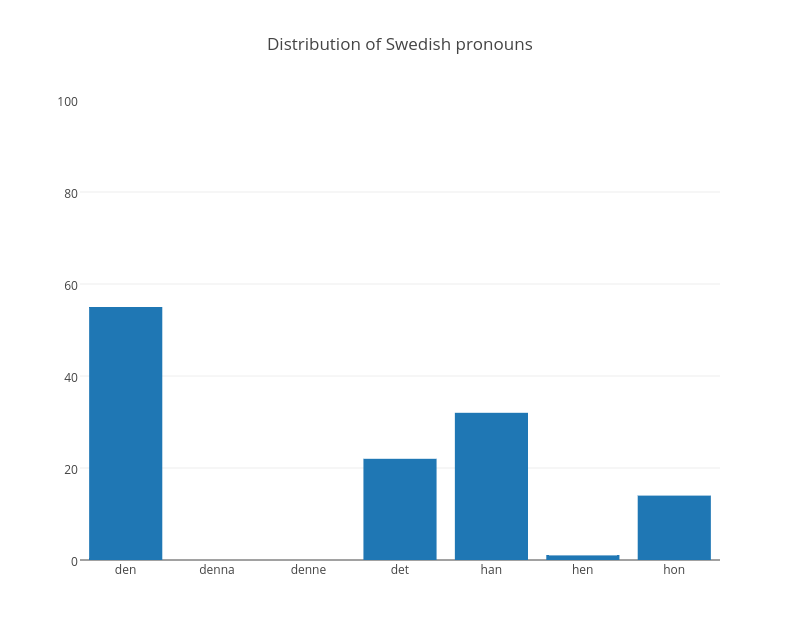
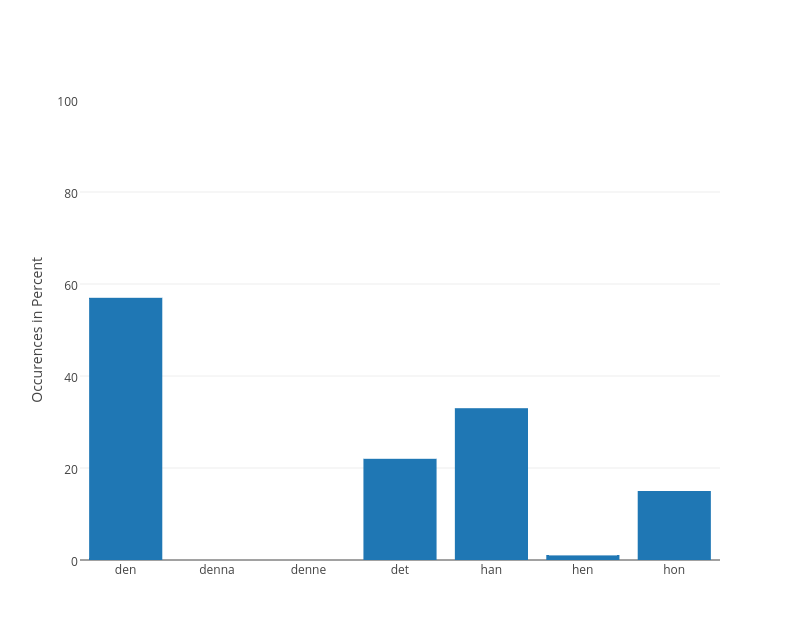
LAB2 - Finished python mapper/reducer and HiveSQL script
* dont know why the counting is different
* should not be!

diff --git a/wordcount-python/plot-abc.py b/wordcount-python/plot-abc.py
@@ -1,0 +1,55 @@
+import plotly.plotly as py
+import plotly.graph_objs as go
+# Sign in to plotly
+py.sign_in('XXX', 'XXX') # Replace the username, and API key with your credentials.
+
+# read data which is going to be plottet from file
+with open("plot-data-abc.txt") as f:
+    content = f.readlines()
+
+xlist = []
+ylist = []
+
+summe = 0;
+max = 0;
+
+for item in content:
+    xlist.append(item.split()[0])
+    ylist.append(int(item.split()[1]))
+    summe = summe + int(item.split()[1])
+    if max < int(item.split()[1]):
+      max = int(item.split()[1]);
+
+def relative(value): return (100*value)/summe
+
+ylist = map(relative, ylist)
+
+# Create a simple chart..
+trace = go.Bar(
+  x=ylist,
+  y=xlist,
+  orientation = 'h',)
+data = [trace]
+layout = go.Layout(
+  width=800 ,
+  height=1200,
+  xaxis=dict(
+    range=[0, 100*max/summe],
+    title='Occurences in Percent',
+    titlefont=dict(
+        size=18,
+        color='#7f7f7f'
+    )),
+  yaxis=dict(
+        title='Characters',
+        titlefont=dict(
+            size=18,
+            color='#7f7f7f'
+        )
+  )
+)
+
+fig = go.Figure(data=data, layout=layout)
+
+py.image.save_as(fig, filename='a-simple-plot-abc.png')
+

diff --git a/wordcount-python/mapper.py b/wordcount-python/mapper.py
@@ -1,8 +1,8 @@
 #!/usr/bin/env python
-"""A more advanced Mapper, using Python iterators and generators."""
 
 import sys
 import json
+import re
 
 def read_input(file):
   global count
@@ -16,10 +16,11 @@ def read_input(file):
       if not data.get("retweeted_status"):
         count = count + 1
         text = json.dumps(data["text"])
+        text = text.lower()
+        text = re.sub('[^a-z]', ' ', text)
         text = text.split()
         for s in text:
-          value = '@:*!?,."();-+=[]{}|/\\'
-          snippet = s.lower().rstrip(value).lstrip(value)
+          snippet = s.strip()
           # look for substring (han, hon, den, det, denna, denne, hen)
           if (("han" == snippet) or ("hon" == snippet) or("den" == snippet) or ("det" == snippet) or ("denna" == snippet) or ("denne" == snippet) or ("hen" == snippet)):
             yield snippet

diff --git a/wordcount-python/plot.py b/wordcount-python/plot.py
@@ -1,7 +1,7 @@
 import plotly.plotly as py
 import plotly.graph_objs as go
 # Sign in to plotly
-py.sign_in('###', '###') # Replace the username, and API key with your credentials.
+py.sign_in('XXX', 'XXX') # Replace the username, and API key with your credentials.
 
 # read data which is going to be plottet from file
 with open("plot-data.txt") as f:
@@ -25,10 +25,12 @@ ylist = map(relative, ylist)
 trace = go.Bar(x=xlist, y=ylist)
 data = [trace]
 layout = go.Layout(
-  title='Distribution of Swedish pronouns',
   width=800,
   height=640,
-  yaxis=dict(range=[0, 100])
+  yaxis=dict(
+    range=[0, 100],
+    title='Occurences in Percent'
+  )
 )
 
 fig = go.Figure(data=data, layout=layout)

diff --git a/wordcount-python/reducer.py b/wordcount-python/reducer.py
@@ -1,5 +1,4 @@
 #!/usr/bin/env python
-"""A more advanced Reducer, using Python iterators and generators."""
 
 from itertools import groupby
 from operator import itemgetter
